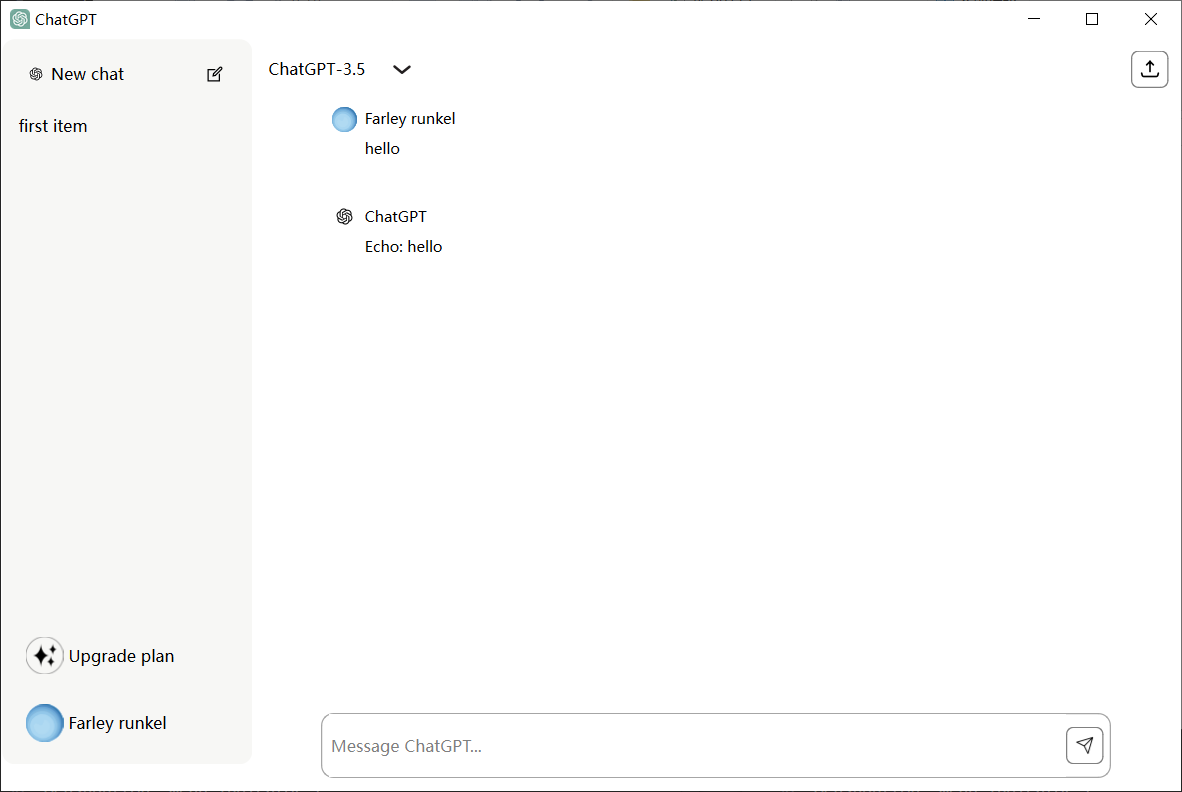
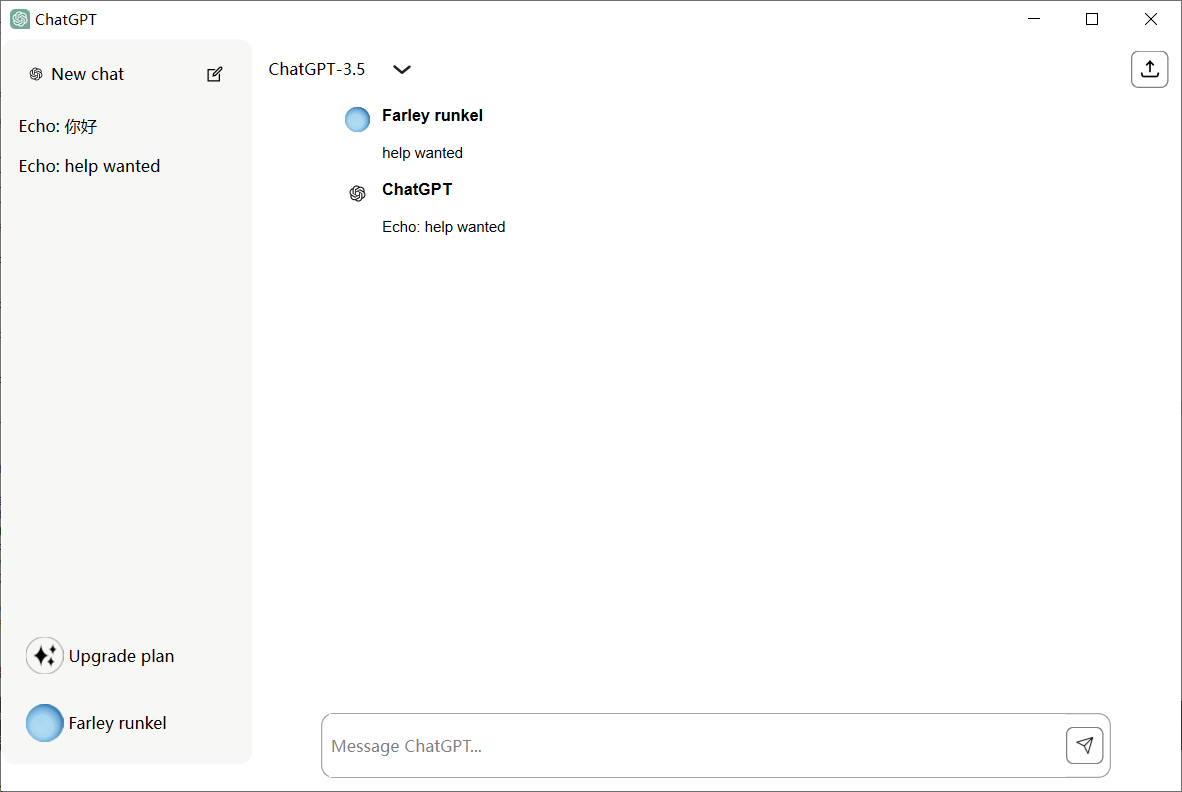
add feature: update history item text with chat contend

Changed region(s): [[0.2741, 0.1212, 0.4264, 0.3333], [0.0, 0.1515, 0.1218, 0.2424]]

diff --git a/src/mainwindow.cpp b/src/mainwindow.cpp
@@ -19,7 +19,7 @@ MainWindow::MainWindow(QWidget *parent)
 
     ui->setupUi(this);
     ui->chatList->setSelectionMode(QAbstractItemView::NoSelection);
-    ui->historyList->addItem("first item");
+    ui->historyList->addItem("");
 
     connect(ui->inputButton, &QPushButton::pressed, ui->inputLine, &QLineEdit::returnPressed);
     connect(ui->newChatButton, &QPushButton::pressed, [&](){this->addNewChat();} );
@@ -62,7 +62,7 @@ void MainWindow::addNewChat() {
     auto curr_doc = new Document();
     m_docus.emplace_back(curr_doc);
 
-    auto item = new QListWidgetItem("history item",ui->historyList );
+    auto item = new QListWidgetItem("",ui->historyList );
     ui->historyList->addItem(item);
 }
 
@@ -116,5 +116,10 @@ void MainWindow::on_inputLine_returnPressed()
     QStandardItem *item2 = new QStandardItem;
     item2->setData(chatData2, Qt::DisplayRole);
     model->appendRow(item2);
+
+    auto hisItem = ui->historyList->item(ui->chatTabs->currentIndex());
+    hisItem->setText( QString::fromStdString(reply));
+
+    ui->inputLine->clear();
 }
 
